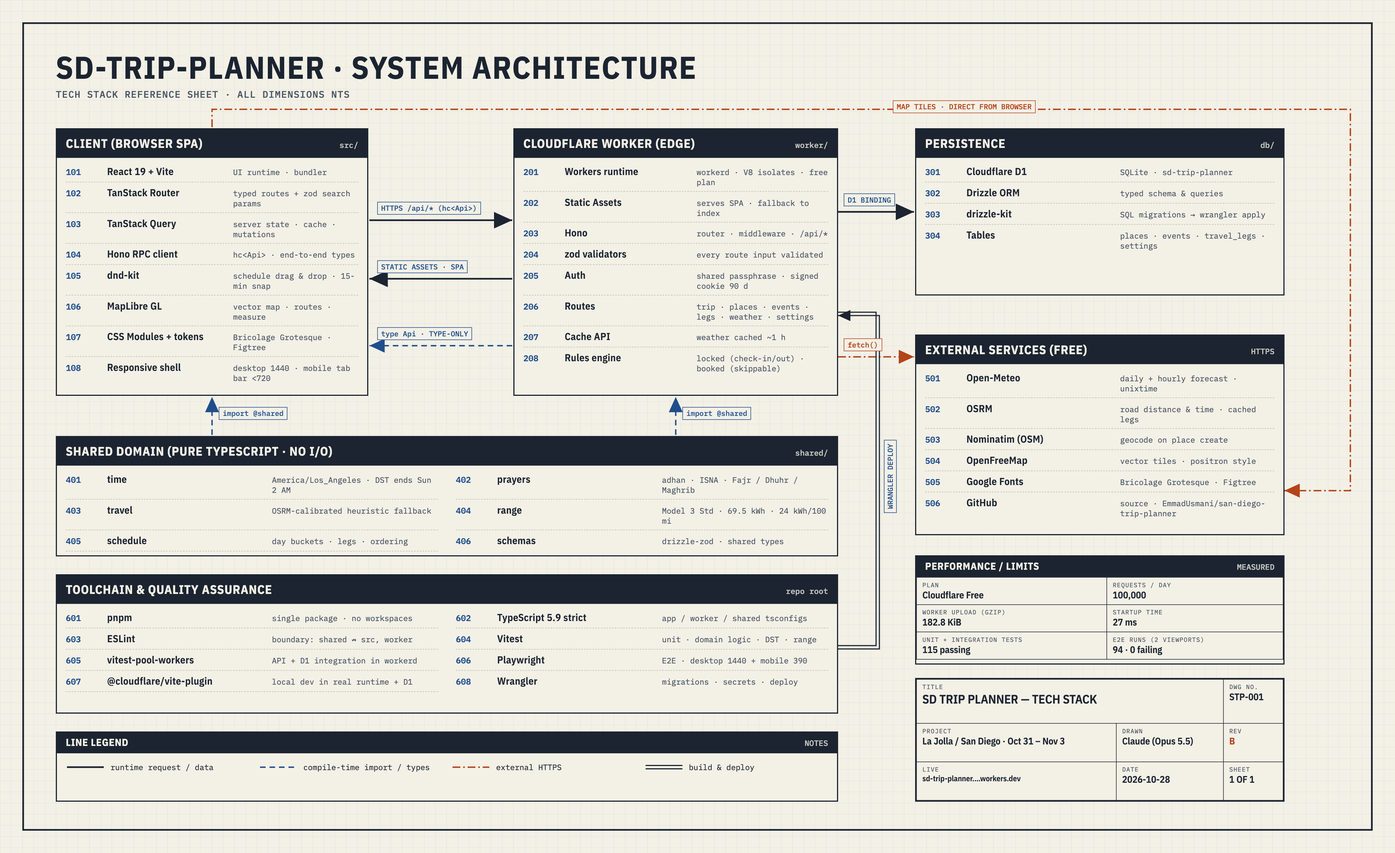
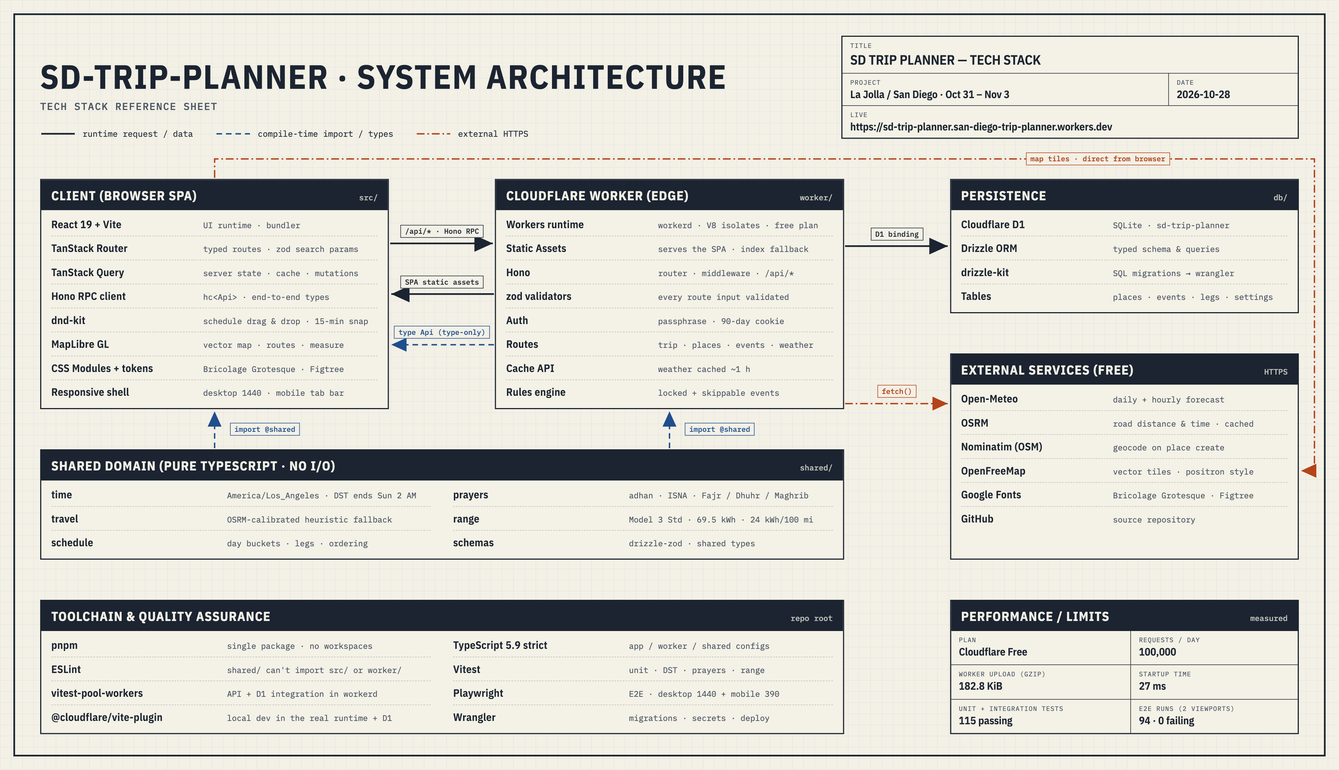
Diagram: grid layout, computed connectors, no part numbers, full live URL

Changed region(s): [[0.0, 0.0, 0.9956, 0.9884], [0.9022, 0.7104, 0.9333, 0.7413]]

diff --git a/docs/diagram/stack.html b/docs/diagram/stack.html
@@ -2,199 +2,205 @@
 <html lang="en">
 <head>
 <meta charset="utf-8">
-<title>STP-001 System Architecture</title>
+<title>SD Trip Planner — Tech Stack</title>
 <link href="https://fonts.googleapis.com/css2?family=IBM+Plex+Mono:wght@400;500;600&family=IBM+Plex+Sans+Condensed:wght@400;500;600;700&display=swap" rel="stylesheet">
 <style>
   :root { --paper:#F3F0E6; --ink:#1B2430; --ink2:#4A5563; --blue:#1F4E8C; --red:#B4441A; --grid:rgba(31,78,140,.07); }
-  * { box-sizing: border-box; }
+  * { box-sizing:border-box; }
   body { margin:0; background:var(--paper); }
-  .sheet { position:relative; width:2500px; height:1530px; background:
-      linear-gradient(var(--grid) 1px, transparent 1px) 0 0/20px 20px,
-      linear-gradient(90deg, var(--grid) 1px, transparent 1px) 0 0/20px 20px, var(--paper);
-    color:var(--ink); font-family:'IBM Plex Mono', monospace; overflow:hidden; }
-  .frame-o { position:absolute; inset:24px; border:2px solid var(--ink); }
-  .frame-i { position:absolute; inset:40px; border:3px solid var(--ink); }
-  .zone { position:absolute; font:600 15px 'IBM Plex Mono'; color:var(--ink2); }
-  .box { position:absolute; border:2px solid var(--ink); background:rgba(243,240,230,.92); }
-  .box .hd { display:flex; justify-content:space-between; align-items:baseline; padding:10px 16px; border-bottom:2px solid var(--ink); background:var(--ink); color:var(--paper); }
-  .box .hd b { font:700 22px 'IBM Plex Sans Condensed'; letter-spacing:.04em; }
-  .box .hd span { font:500 14px 'IBM Plex Mono'; opacity:.8; }
-  .rows { padding:6px 16px 10px; }
-  .row { display:grid; grid-template-columns:62px 1fr 1.05fr; gap:12px; padding:7px 0; border-bottom:1px dashed rgba(27,36,48,.25); font-size:15px; align-items:baseline; }
-  .row:last-child { border-bottom:0; }
-  .row .n { color:var(--blue); font-weight:600; }
-  .row .p { font:600 18px 'IBM Plex Sans Condensed'; letter-spacing:.02em; }
-  .row .f { color:var(--ink2); font-size:14px; }
-  .cols2 .rows { display:grid; grid-template-columns:1fr 1fr; column-gap:32px; }
-  .lbl { position:absolute; font:500 13px 'IBM Plex Mono'; color:var(--blue); background:var(--paper); padding:2px 6px; border:1px solid var(--blue); white-space:nowrap; }
+  .sheet { position:relative; width:2400px; padding:64px 72px 64px; color:var(--ink); font-family:'IBM Plex Mono', monospace;
+    background: linear-gradient(var(--grid) 1px, transparent 1px) 0 0/20px 20px,
+                linear-gradient(90deg, var(--grid) 1px, transparent 1px) 0 0/20px 20px, var(--paper); }
+  .sheet::before { content:""; position:absolute; inset:24px; border:3px solid var(--ink); pointer-events:none; }
+  header { display:flex; justify-content:space-between; align-items:flex-end; gap:48px; }
+  header h1 { margin:0; font:700 60px/1 'IBM Plex Sans Condensed'; letter-spacing:.03em; }
+  header p { margin:12px 0 0; font:500 18px 'IBM Plex Mono'; color:var(--ink2); letter-spacing:.08em; }
+  .grid { margin-top:72px; display:grid; grid-template-columns:repeat(3, minmax(0, 1fr)); column-gap:190px; row-gap:72px;
+    grid-template-areas:
+      "client worker data"
+      "client worker ext"
+      "shared shared ext"
+      "tool   tool   perf"; }
+  .box { border:2px solid var(--ink); background:rgba(243,240,230,.95); display:flex; flex-direction:column; }
+  .hd { display:flex; justify-content:space-between; align-items:baseline; padding:12px 18px; background:var(--ink); color:var(--paper); }
+  .hd b { font:700 23px 'IBM Plex Sans Condensed'; letter-spacing:.05em; }
+  .hd span { font:500 14px 'IBM Plex Mono'; opacity:.75; }
+  .rows { padding:4px 18px 8px; }
+  .two .rows { display:grid; grid-template-columns:1fr 1fr; column-gap:40px; }
+  .row { display:grid; grid-template-columns:minmax(0, .9fr) minmax(0, 1.1fr); gap:16px; padding:9px 0; border-bottom:1px dashed rgba(27,36,48,.25); align-items:baseline; }
+  .rows > .row:last-child, .two .rows > .row:nth-last-child(-n+2) { border-bottom:0; }
+  .row .p { font:600 19px 'IBM Plex Sans Condensed'; letter-spacing:.02em; }
+  .row .f { font-size:14.5px; color:var(--ink2); }
+  table { border-collapse:collapse; width:100%; height:100%; }
+  td { border:1.5px solid var(--ink); padding:8px 14px; vertical-align:top; }
+  td small { display:block; font-size:11.5px; color:var(--ink2); letter-spacing:.08em; margin-bottom:2px; }
+  td b { font:600 19px 'IBM Plex Sans Condensed'; }
+  .box table { border:0; } .box table tr:first-child td { border-top:0; } .box table td:first-child { border-left:0; } .box table td:last-child { border-right:0; } .box table tr:last-child td { border-bottom:0; }
+  .legend { display:flex; gap:40px; align-items:center; margin-top:28px; font-size:15px; flex-wrap:wrap; }
+  .legend div { display:flex; gap:12px; align-items:center; }
+  .lbl { position:absolute; font:500 13px 'IBM Plex Mono'; color:var(--blue); background:var(--paper); padding:2px 7px; border:1px solid var(--blue); white-space:nowrap; transform:translate(-50%, -50%); }
   .lbl.red { color:var(--red); border-color:var(--red); }
-  .title { position:absolute; left:100px; top:92px; }
-  .title h1 { margin:0; font:700 56px/1 'IBM Plex Sans Condensed'; letter-spacing:.03em; }
-  .title p { margin:10px 0 0; font:500 17px 'IBM Plex Mono'; color:var(--ink2); letter-spacing:.06em; }
-  table { border-collapse:collapse; width:100%; }
-  td { border:1.5px solid var(--ink); padding:6px 10px; font-size:14px; vertical-align:top; }
-  td small { display:block; font-size:11px; color:var(--ink2); letter-spacing:.08em; }
-  td b { font:600 17px 'IBM Plex Sans Condensed'; }
-  .stamp { position:absolute; right:300px; top:96px; border:3px solid var(--red); color:var(--red); padding:8px 18px; font:700 22px 'IBM Plex Sans Condensed'; letter-spacing:.12em; transform:rotate(-4deg); }
-  .stamp small { display:block; font:500 12px 'IBM Plex Mono'; letter-spacing:.08em; }
+  .lbl.ink { color:var(--ink); border-color:var(--ink); }
+  #wires { position:absolute; inset:0; pointer-events:none; }
 </style>
 </head>
 <body>
 <div class="sheet" id="sheet">
-  <div class="frame-i"></div>
+  <header>
+    <div>
+      <h1>SD-TRIP-PLANNER · SYSTEM ARCHITECTURE</h1>
+      <p>TECH STACK REFERENCE SHEET</p>
+      <div class="legend">
+        <div><svg width="64" height="12" aria-hidden="true"><path d="M2 6 H62" stroke="#1B2430" stroke-width="3"/></svg>runtime request / data</div>
+        <div><svg width="64" height="12" aria-hidden="true"><path d="M2 6 H62" stroke="#1F4E8C" stroke-width="2.5" stroke-dasharray="10 7"/></svg>compile-time import / types</div>
+        <div><svg width="64" height="12" aria-hidden="true"><path d="M2 6 H62" stroke="#B4441A" stroke-width="2.5" stroke-dasharray="14 5 3 5"/></svg>external HTTPS</div>
+      </div>
+    </div>
+    <section class="box" id="title" style="width:820px">
+      <table>
+        <tr><td colspan="2"><small>TITLE</small><b style="font-size:24px">SD TRIP PLANNER — TECH STACK</b></td></tr>
+        <tr><td><small>PROJECT</small><b>La Jolla / San Diego · Oct 31 – Nov 3</b></td><td><small>DATE</small><b>2026-10-28</b></td></tr>
+        <tr><td colspan="2"><small>LIVE</small><b>https://sd-trip-planner.san-diego-trip-planner.workers.dev</b></td></tr>
+      </table>
+    </section>
+  </header>
 
-  <div class="title">
-    <h1>SD-TRIP-PLANNER · SYSTEM ARCHITECTURE</h1>
-    <p>TECH STACK REFERENCE SHEET · ALL DIMENSIONS NTS</p>
+  <div class="grid">
+    <section class="box" id="client" style="grid-area:client">
+      <div class="hd"><b>CLIENT (BROWSER SPA)</b><span>src/</span></div>
+      <div class="rows">
+        <div class="row"><span class="p">React 19 + Vite</span><span class="f">UI runtime · bundler</span></div>
+        <div class="row"><span class="p">TanStack Router</span><span class="f">typed routes · zod search params</span></div>
+        <div class="row"><span class="p">TanStack Query</span><span class="f">server state · cache · mutations</span></div>
+        <div class="row"><span class="p">Hono RPC client</span><span class="f">hc&lt;Api&gt; · end-to-end types</span></div>
+        <div class="row"><span class="p">dnd-kit</span><span class="f">schedule drag &amp; drop · 15-min snap</span></div>
+        <div class="row"><span class="p">MapLibre GL</span><span class="f">vector map · routes · measure</span></div>
+        <div class="row"><span class="p">CSS Modules + tokens</span><span class="f">Bricolage Grotesque · Figtree</span></div>
+        <div class="row"><span class="p">Responsive shell</span><span class="f">desktop 1440 · mobile tab bar</span></div>
+      </div>
+    </section>
+
+    <section class="box" id="worker" style="grid-area:worker">
+      <div class="hd"><b>CLOUDFLARE WORKER (EDGE)</b><span>worker/</span></div>
+      <div class="rows">
+        <div class="row"><span class="p">Workers runtime</span><span class="f">workerd · V8 isolates · free plan</span></div>
+        <div class="row"><span class="p">Static Assets</span><span class="f">serves the SPA · index fallback</span></div>
+        <div class="row"><span class="p">Hono</span><span class="f">router · middleware · /api/*</span></div>
+        <div class="row"><span class="p">zod validators</span><span class="f">every route input validated</span></div>
+        <div class="row"><span class="p">Auth</span><span class="f">passphrase · 90-day cookie</span></div>
+        <div class="row"><span class="p">Routes</span><span class="f">trip · places · events · weather</span></div>
+        <div class="row"><span class="p">Cache API</span><span class="f">weather cached ~1 h</span></div>
+        <div class="row"><span class="p">Rules engine</span><span class="f">locked + skippable events</span></div>
+      </div>
+    </section>
+
+    <section class="box" id="data" style="grid-area:data">
+      <div class="hd"><b>PERSISTENCE</b><span>db/</span></div>
+      <div class="rows">
+        <div class="row"><span class="p">Cloudflare D1</span><span class="f">SQLite · sd-trip-planner</span></div>
+        <div class="row"><span class="p">Drizzle ORM</span><span class="f">typed schema &amp; queries</span></div>
+        <div class="row"><span class="p">drizzle-kit</span><span class="f">SQL migrations → wrangler</span></div>
+        <div class="row"><span class="p">Tables</span><span class="f">places · events · legs · settings</span></div>
+      </div>
+    </section>
+
+    <section class="box" id="ext" style="grid-area:ext">
+      <div class="hd"><b>EXTERNAL SERVICES (FREE)</b><span>HTTPS</span></div>
+      <div class="rows">
+        <div class="row"><span class="p">Open-Meteo</span><span class="f">daily + hourly forecast</span></div>
+        <div class="row"><span class="p">OSRM</span><span class="f">road distance &amp; time · cached</span></div>
+        <div class="row"><span class="p">Nominatim (OSM)</span><span class="f">geocode on place create</span></div>
+        <div class="row" id="tiles"><span class="p">OpenFreeMap</span><span class="f">vector tiles · positron style</span></div>
+        <div class="row"><span class="p">Google Fonts</span><span class="f">Bricolage Grotesque · Figtree</span></div>
+        <div class="row"><span class="p">GitHub</span><span class="f">source repository</span></div>
+      </div>
+    </section>
+
+    <section class="box two" id="shared" style="grid-area:shared">
+      <div class="hd"><b>SHARED DOMAIN (PURE TYPESCRIPT · NO I/O)</b><span>shared/</span></div>
+      <div class="rows">
+        <div class="row"><span class="p">time</span><span class="f">America/Los_Angeles · DST ends Sun 2 AM</span></div>
+        <div class="row"><span class="p">prayers</span><span class="f">adhan · ISNA · Fajr / Dhuhr / Maghrib</span></div>
+        <div class="row"><span class="p">travel</span><span class="f">OSRM-calibrated heuristic fallback</span></div>
+        <div class="row"><span class="p">range</span><span class="f">Model 3 Std · 69.5 kWh · 24 kWh/100 mi</span></div>
+        <div class="row"><span class="p">schedule</span><span class="f">day buckets · legs · ordering</span></div>
+        <div class="row"><span class="p">schemas</span><span class="f">drizzle-zod · shared types</span></div>
+      </div>
+    </section>
+
+    <section class="box two" id="tool" style="grid-area:tool">
+      <div class="hd"><b>TOOLCHAIN &amp; QUALITY ASSURANCE</b><span>repo root</span></div>
+      <div class="rows">
+        <div class="row"><span class="p">pnpm</span><span class="f">single package · no workspaces</span></div>
+        <div class="row"><span class="p">TypeScript 5.9 strict</span><span class="f">app / worker / shared configs</span></div>
+        <div class="row"><span class="p">ESLint</span><span class="f">shared/ can't import src/ or worker/</span></div>
+        <div class="row"><span class="p">Vitest</span><span class="f">unit · DST · prayers · range</span></div>
+        <div class="row"><span class="p">vitest-pool-workers</span><span class="f">API + D1 integration in workerd</span></div>
+        <div class="row"><span class="p">Playwright</span><span class="f">E2E · desktop 1440 + mobile 390</span></div>
+        <div class="row"><span class="p">@cloudflare/vite-plugin</span><span class="f">local dev in the real runtime + D1</span></div>
+        <div class="row"><span class="p">Wrangler</span><span class="f">migrations · secrets · deploy</span></div>
+      </div>
+    </section>
+
+    <section class="box" id="perf" style="grid-area:perf">
+      <div class="hd"><b>PERFORMANCE / LIMITS</b><span>measured</span></div>
+      <table>
+        <tr><td><small>PLAN</small><b>Cloudflare Free</b></td><td><small>REQUESTS / DAY</small><b>100,000</b></td></tr>
+        <tr><td><small>WORKER UPLOAD (GZIP)</small><b>182.8 KiB</b></td><td><small>STARTUP TIME</small><b>27 ms</b></td></tr>
+        <tr><td><small>UNIT + INTEGRATION TESTS</small><b>115 passing</b></td><td><small>E2E RUNS (2 VIEWPORTS)</small><b>94 · 0 failing</b></td></tr>
+      </table>
+    </section>
   </div>
 
-  <svg width="2500" height="1530" style="position:absolute;inset:0" aria-hidden="true">
+  <svg id="wires" aria-hidden="true">
     <defs>
       <marker id="a" viewBox="0 0 12 12" refX="11" refY="6" markerWidth="12" markerHeight="12" orient="auto-start-reverse"><path d="M0,1 L11,6 L0,11 z" fill="#1B2430"/></marker>
       <marker id="ab" viewBox="0 0 12 12" refX="11" refY="6" markerWidth="12" markerHeight="12" orient="auto-start-reverse"><path d="M0,1 L11,6 L0,11 z" fill="#1F4E8C"/></marker>
       <marker id="ar" viewBox="0 0 12 12" refX="11" refY="6" markerWidth="12" markerHeight="12" orient="auto-start-reverse"><path d="M0,1 L11,6 L0,11 z" fill="#B4441A"/></marker>
     </defs>
-    <!-- client <-> edge -->
-    <path d="M662 395 H918" stroke="#1B2430" stroke-width="3" marker-end="url(#a)" fill="none"/>
-    <path d="M918 500 H662" stroke="#1B2430" stroke-width="3" marker-end="url(#a)" fill="none"/>
-    <path d="M918 620 H662" stroke="#1F4E8C" stroke-width="2.5" stroke-dasharray="10 7" marker-end="url(#ab)" fill="none"/>
-    <!-- edge -> d1 -->
-    <path d="M1502 380 H1638" stroke="#1B2430" stroke-width="3" marker-end="url(#a)" fill="none"/>
-    <!-- edge -> external -->
-    <path d="M1502 640 H1638" stroke="#B4441A" stroke-width="2.5" stroke-dasharray="14 5 3 5" marker-end="url(#ar)" fill="none"/>
-    <!-- client -> tiles (direct) -->
-    <path d="M380 228 V196 H2420 V880 H2302" stroke="#B4441A" stroke-width="2.5" stroke-dasharray="14 5 3 5" marker-end="url(#ar)" fill="none"/>
-    <!-- shared -> client / edge -->
-    <path d="M380 780 V712" stroke="#1F4E8C" stroke-width="2.5" stroke-dasharray="10 7" marker-end="url(#ab)" fill="none"/>
-    <path d="M1211 780 V712" stroke="#1F4E8C" stroke-width="2.5" stroke-dasharray="10 7" marker-end="url(#ab)" fill="none"/>
-    <!-- toolchain -> deploy -->
-    <path d="M1502 1158 H1570 V560 H1502" stroke="#1B2430" stroke-width="2" fill="none"/>
-    <path d="M1502 1164 H1576 V566 H1502" stroke="#1B2430" stroke-width="2" fill="none" marker-end="url(#a)"/>
-    <!-- dimension line across client width -->
-    
   </svg>
-
-  <div class="lbl" style="left:676px;top:362px">HTTPS /api/*  (hc&lt;Api&gt;)</div>
-  <div class="lbl" style="left:676px;top:467px">STATIC ASSETS · SPA</div>
-  <div class="lbl" style="left:676px;top:587px">type Api · TYPE-ONLY</div>
-  <div class="lbl" style="left:1512px;top:347px">D1 BINDING</div>
-  <div class="lbl red" style="left:1512px;top:607px">fetch()</div>
-  <div class="lbl red" style="left:1600px;top:180px">MAP TILES · DIRECT FROM BROWSER</div>
-  <div class="lbl" style="left:392px;top:730px">import @shared</div>
-  <div class="lbl" style="left:1223px;top:730px">import @shared</div>
-  <div class="lbl" style="left:1584px;top:920px;transform:rotate(-90deg);transform-origin:left top">WRANGLER DEPLOY</div>
-
-  <!-- 100 CLIENT -->
-  <div class="box" style="left:100px;top:230px;width:560px;height:480px">
-    <div class="hd"><b>CLIENT (BROWSER SPA)</b><span>src/</span></div>
-    <div class="rows">
-      <div class="row"><span class="n">101</span><span class="p">React 19 + Vite</span><span class="f">UI runtime · bundler</span></div>
-      <div class="row"><span class="n">102</span><span class="p">TanStack Router</span><span class="f">typed routes + zod search params</span></div>
-      <div class="row"><span class="n">103</span><span class="p">TanStack Query</span><span class="f">server state · cache · mutations</span></div>
-      <div class="row"><span class="n">104</span><span class="p">Hono RPC client</span><span class="f">hc&lt;Api&gt; · end-to-end types</span></div>
-      <div class="row"><span class="n">105</span><span class="p">dnd-kit</span><span class="f">schedule drag &amp; drop · 15-min snap</span></div>
-      <div class="row"><span class="n">106</span><span class="p">MapLibre GL</span><span class="f">vector map · routes · measure</span></div>
-      <div class="row"><span class="n">107</span><span class="p">CSS Modules + tokens</span><span class="f">Bricolage Grotesque · Figtree</span></div>
-      <div class="row"><span class="n">108</span><span class="p">Responsive shell</span><span class="f">desktop 1440 · mobile tab bar &lt;720</span></div>
-    </div>
-  </div>
-
-  <!-- 200 EDGE -->
-  <div class="box" style="left:920px;top:230px;width:582px;height:480px">
-    <div class="hd"><b>CLOUDFLARE WORKER (EDGE)</b><span>worker/</span></div>
-    <div class="rows">
-      <div class="row"><span class="n">201</span><span class="p">Workers runtime</span><span class="f">workerd · V8 isolates · free plan</span></div>
-      <div class="row"><span class="n">202</span><span class="p">Static Assets</span><span class="f">serves SPA · fallback to index</span></div>
-      <div class="row"><span class="n">203</span><span class="p">Hono</span><span class="f">router · middleware · /api/*</span></div>
-      <div class="row"><span class="n">204</span><span class="p">zod validators</span><span class="f">every route input validated</span></div>
-      <div class="row"><span class="n">205</span><span class="p">Auth</span><span class="f">shared passphrase · signed cookie 90 d</span></div>
-      <div class="row"><span class="n">206</span><span class="p">Routes</span><span class="f">trip · places · events · legs · weather · settings</span></div>
-      <div class="row"><span class="n">207</span><span class="p">Cache API</span><span class="f">weather cached ~1 h</span></div>
-      <div class="row"><span class="n">208</span><span class="p">Rules engine</span><span class="f">locked (check-in/out) · booked (skippable)</span></div>
-    </div>
-  </div>
-
-  <!-- 300 DATA -->
-  <div class="box" style="left:1640px;top:230px;width:662px;height:300px">
-    <div class="hd"><b>PERSISTENCE</b><span>db/</span></div>
-    <div class="rows">
-      <div class="row"><span class="n">301</span><span class="p">Cloudflare D1</span><span class="f">SQLite · sd-trip-planner</span></div>
-      <div class="row"><span class="n">302</span><span class="p">Drizzle ORM</span><span class="f">typed schema &amp; queries</span></div>
-      <div class="row"><span class="n">303</span><span class="p">drizzle-kit</span><span class="f">SQL migrations → wrangler apply</span></div>
-      <div class="row"><span class="n">304</span><span class="p">Tables</span><span class="f">places · events · travel_legs · settings</span></div>
-    </div>
-  </div>
-
-  <!-- 500 EXTERNAL -->
-  <div class="box" style="left:1640px;top:600px;width:662px;height:360px">
-    <div class="hd"><b>EXTERNAL SERVICES (FREE)</b><span>HTTPS</span></div>
-    <div class="rows">
-      <div class="row"><span class="n">501</span><span class="p">Open-Meteo</span><span class="f">daily + hourly forecast · unixtime</span></div>
-      <div class="row"><span class="n">502</span><span class="p">OSRM</span><span class="f">road distance &amp; time · cached legs</span></div>
-      <div class="row"><span class="n">503</span><span class="p">Nominatim (OSM)</span><span class="f">geocode on place create</span></div>
-      <div class="row"><span class="n">504</span><span class="p">OpenFreeMap</span><span class="f">vector tiles · positron style</span></div>
-      <div class="row"><span class="n">505</span><span class="p">Google Fonts</span><span class="f">Bricolage Grotesque · Figtree</span></div>
-      <div class="row"><span class="n">506</span><span class="p">GitHub</span><span class="f">source · EmmadUsmani/san-diego-trip-planner</span></div>
-    </div>
-  </div>
-
-  <!-- 400 SHARED -->
-  <div class="box cols2" style="left:100px;top:782px;width:1402px;height:216px">
-    <div class="hd"><b>SHARED DOMAIN (PURE TYPESCRIPT · NO I/O)</b><span>shared/</span></div>
-    <div class="rows">
-      <div class="row"><span class="n">401</span><span class="p">time</span><span class="f">America/Los_Angeles · DST ends Sun 2 AM</span></div>
-      <div class="row"><span class="n">402</span><span class="p">prayers</span><span class="f">adhan · ISNA · Fajr / Dhuhr / Maghrib</span></div>
-      <div class="row"><span class="n">403</span><span class="p">travel</span><span class="f">OSRM-calibrated heuristic fallback</span></div>
-      <div class="row"><span class="n">404</span><span class="p">range</span><span class="f">Model 3 Std · 69.5 kWh · 24 kWh/100 mi</span></div>
-      <div class="row"><span class="n">405</span><span class="p">schedule</span><span class="f">day buckets · legs · ordering</span></div>
-      <div class="row"><span class="n">406</span><span class="p">schemas</span><span class="f">drizzle-zod · shared types</span></div>
-    </div>
-  </div>
-
-  <!-- 600 TOOLCHAIN -->
-  <div class="box cols2" style="left:100px;top:1030px;width:1402px;height:250px">
-    <div class="hd"><b>TOOLCHAIN &amp; QUALITY ASSURANCE</b><span>repo root</span></div>
-    <div class="rows">
-      <div class="row"><span class="n">601</span><span class="p">pnpm</span><span class="f">single package · no workspaces</span></div>
-      <div class="row"><span class="n">602</span><span class="p">TypeScript 5.9 strict</span><span class="f">app / worker / shared tsconfigs</span></div>
-      <div class="row"><span class="n">603</span><span class="p">ESLint</span><span class="f">boundary: shared ↛ src, worker</span></div>
-      <div class="row"><span class="n">604</span><span class="p">Vitest</span><span class="f">unit · domain logic · DST · range</span></div>
-      <div class="row"><span class="n">605</span><span class="p">vitest-pool-workers</span><span class="f">API + D1 integration in workerd</span></div>
-      <div class="row"><span class="n">606</span><span class="p">Playwright</span><span class="f">E2E · desktop 1440 + mobile 390</span></div>
-      <div class="row"><span class="n">607</span><span class="p">@cloudflare/vite-plugin</span><span class="f">local dev in real runtime + D1</span></div>
-      <div class="row"><span class="n">608</span><span class="p">Wrangler</span><span class="f">migrations · secrets · deploy</span></div>
-    </div>
-  </div>
-
-  <!-- LEGEND -->
-  <div class="box" style="left:100px;top:1312px;width:1402px;height:126px">
-    <div class="hd" style="padding:6px 16px"><b style="font-size:18px">LINE LEGEND</b><span>NOTES</span></div>
-    <div style="display:grid;grid-template-columns:repeat(4,1fr);gap:16px;padding:16px;font-size:14px;align-items:center">
-      <div style="display:flex;gap:10px;align-items:center"><svg width="70" height="12" aria-hidden="true"><path d="M2 6 H68" stroke="#1B2430" stroke-width="3"/></svg>runtime request / data</div>
-      <div style="display:flex;gap:10px;align-items:center"><svg width="70" height="12" aria-hidden="true"><path d="M2 6 H68" stroke="#1F4E8C" stroke-width="2.5" stroke-dasharray="10 7"/></svg>compile-time import / types</div>
-      <div style="display:flex;gap:10px;align-items:center"><svg width="70" height="12" aria-hidden="true"><path d="M2 6 H68" stroke="#B4441A" stroke-width="2.5" stroke-dasharray="14 5 3 5"/></svg>external HTTPS</div>
-      <div style="display:flex;gap:10px;align-items:center"><svg width="70" height="12" aria-hidden="true"><path d="M2 3 H68 M2 9 H68" stroke="#1B2430" stroke-width="2"/></svg>build &amp; deploy</div>
-    </div>
-  </div>
-
-  <!-- SPEC TABLE -->
-  <div class="box" style="left:1640px;top:996px;width:662px;height:196px">
-    <div class="hd" style="padding:6px 16px"><b style="font-size:18px">PERFORMANCE / LIMITS</b><span>MEASURED</span></div>
-    <table style="border:0">
-      <tr><td><small>PLAN</small><b>Cloudflare Free</b></td><td><small>REQUESTS / DAY</small><b>100,000</b></td></tr>
-      <tr><td><small>WORKER UPLOAD (GZIP)</small><b>182.8 KiB</b></td><td><small>STARTUP TIME</small><b>27 ms</b></td></tr>
-      <tr><td><small>UNIT + INTEGRATION TESTS</small><b>115 passing</b></td><td><small>E2E RUNS (2 VIEWPORTS)</small><b>94 · 0 failing</b></td></tr>
-    </table>
-  </div>
-
-  <!-- TITLE BLOCK -->
-  <div class="box" style="left:1640px;top:1216px;width:662px;height:222px;background:var(--paper)">
-    <table style="height:100%">
-      <tr><td colspan="2"><small>TITLE</small><b style="font-size:22px">SD TRIP PLANNER — TECH STACK</b></td><td><small>DWG NO.</small><b>STP-001</b></td></tr>
-      <tr><td><small>PROJECT</small><b>La Jolla / San Diego · Oct 31 – Nov 3</b></td><td><small>DRAWN</small><b>Claude (Opus 5.5)</b></td><td><small>REV</small><b style="color:var(--red)">B</b></td></tr>
-      <tr><td><small>LIVE</small><b style="font-size:14px">sd-trip-planner.…workers.dev</b></td><td><small>DATE</small><b>2026-10-28</b></td><td><small>SHEET</small><b>1 OF 1</b></td></tr>
-    </table>
-  </div>
 </div>
+<script>
+  // Connectors are computed from the laid-out boxes so they always meet edges cleanly.
+  const sheet = document.getElementById('sheet');
+  function draw() {
+    const S = sheet.getBoundingClientRect();
+    const r = (id) => { const b = document.getElementById(id).getBoundingClientRect(); return { l:b.left-S.left, r:b.right-S.left, t:b.top-S.top, b:b.bottom-S.top, w:b.width, h:b.height }; };
+    const svg = document.getElementById('wires');
+    svg.setAttribute('width', S.width); svg.setAttribute('height', S.height);
+    const styles = {
+      ink:  'stroke="#1B2430" stroke-width="3" marker-end="url(#a)"',
+      blue: 'stroke="#1F4E8C" stroke-width="2.5" stroke-dasharray="10 7" marker-end="url(#ab)"',
+      red:  'stroke="#B4441A" stroke-width="2.5" stroke-dasharray="14 5 3 5" marker-end="url(#ar)"',
+    };
+    const paths = [], labels = [];
+    const wire = (d, kind, text, x, y) => { paths.push(`<path d="${d}" fill="none" ${styles[kind]}/>`); if (text) labels.push({ text, x, y, kind }); };
+    const c = r('client'), w = r('worker'), d = r('data'), e = r('ext'), s = r('shared'), t = r('tiles');
+    const gap1 = (c.r + w.l) / 2, gap2 = (w.r + d.l) / 2;
+    const y1 = c.t + c.h * .28, y2 = c.t + c.h * .5, y3 = c.t + c.h * .72;
+    wire(`M${c.r+2} ${y1} H${w.l-4}`, 'ink', '/api/* · Hono RPC', gap1, y1 - 22);
+    wire(`M${w.l-2} ${y2} H${c.r+4}`, 'ink', 'SPA static assets', gap1, y2 - 22);
+    wire(`M${w.l-2} ${y3} H${c.r+4}`, 'blue', 'type Api (type-only)', gap1, y3 - 22);
+    const yd = (d.t + d.b) / 2;
+    wire(`M${w.r+2} ${yd} H${d.l-4}`, 'ink', 'D1 binding', gap2, yd - 22);
+    const ye = e.t + 90;
+    wire(`M${w.r+2} ${ye} H${e.l-4}`, 'red', 'fetch()', gap2, ye - 22);
+    const cx = (c.l + c.r) / 2, wx = (w.l + w.r) / 2;
+    wire(`M${cx} ${s.t-2} V${c.b+4}`, 'blue', 'import @shared', cx + 90, (s.t + c.b) / 2);
+    wire(`M${wx} ${s.t-2} V${w.b+4}`, 'blue', 'import @shared', wx + 90, (s.t + w.b) / 2);
+    const topY = c.t - 36, rightX = e.r + 28, ty = (t.t + t.b) / 2;
+    wire(`M${cx} ${c.t-2} V${topY} H${rightX} V${ty} H${e.r+4}`, 'red', 'map tiles · direct from browser', (gap2 + d.r) / 2, topY);
+    svg.innerHTML = svg.querySelector('defs').outerHTML + paths.join('');
+    sheet.querySelectorAll('.lbl').forEach((n) => n.remove());
+    for (const L of labels) {
+      const n = document.createElement('div');
+      n.className = 'lbl' + (L.kind === 'red' ? ' red' : L.kind === 'ink' ? ' ink' : '');
+      n.textContent = L.text; n.style.left = L.x + 'px'; n.style.top = L.y + 'px';
+      sheet.appendChild(n);
+    }
+    document.documentElement.dataset.ready = '1';
+  }
+  document.fonts.ready.then(draw);
+</script>
 </body>
 </html>
